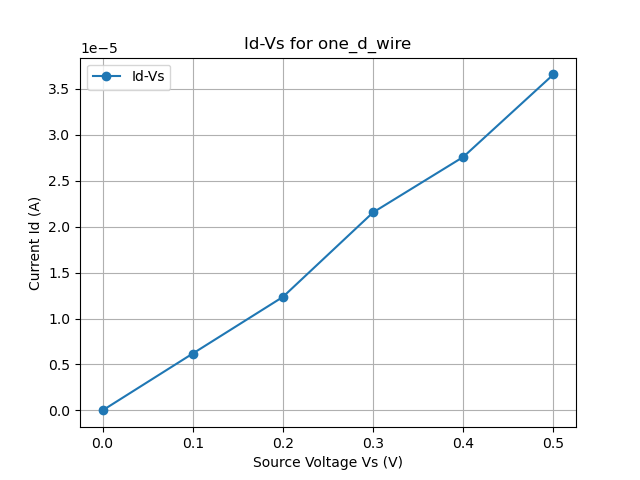
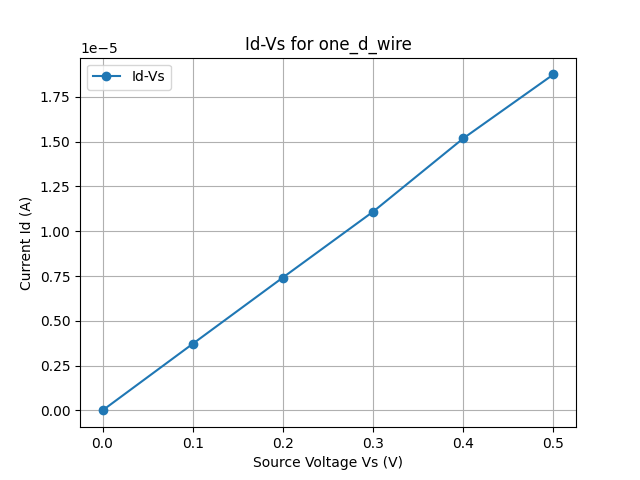
good non rgf plots of current

diff --git a/src/test_systems/rgf.py b/src/test_systems/rgf.py
@@ -124,6 +124,8 @@ class GreensFunction:
         Sigma_lesser = sp.lil_matrix((n, n), dtype=complex)
         Sigma_lesser +=  Gamma_L * f_L
         Sigma_lesser += Gamma_R * f_R
+        Sigma_lesser *= 1j
+        
         Sigma_lesser = Sigma_lesser.tocsc()
 
         G_A = G_R.conj().T
@@ -162,8 +164,8 @@ class GreensFunction:
         f_L = self.fermi_distribution(np.real(E), self.ham.Vs)
         f_R = self.fermi_distribution(np.real(E), self.ham.Vd)
 
-        sigma_L_lesser = Gamma_L * f_L
-        sigma_R_lesser = Gamma_R * f_R
+        sigma_L_lesser = Gamma_L * f_L *1j
+        sigma_R_lesser = Gamma_R * f_R * 1j
 
         g_R = []
         g_lesser = []
@@ -303,14 +305,14 @@ class GreensFunction:
         return G_R_diag
 
     
-    def compute_transmission(self, E, self_energy_method=None):
+    def compute_transmission(self, E, ky=0, self_energy_method=None):
         """
         Compute the transmission coefficient T(E) using the Caroli formula.
         T(E) = Tr[Γ_L * G_R * Γ_R * G_A]
         """
         # Get Green's function and broadening matrices
         G_R, Gamma_L, Gamma_R = self.compute_central_greens_function(
-            E, use_rgf=False, self_energy_method=self_energy_method, compute_lesser=False
+            E,ky=ky, use_rgf=False, self_energy_method=self_energy_method, compute_lesser=False
         )
 
         # Convert to dense arrays for matrix multiplication
@@ -319,14 +321,11 @@ class GreensFunction:
         Gamma_L_dense = Gamma_L.toarray()
         Gamma_R_dense = Gamma_R.toarray()
 
-        # Calculate the transmission matrix product
         T_matrix = Gamma_L_dense @ G_R_dense @ Gamma_R_dense @ G_A_dense
         
-        # The transmission is the trace of this matrix.
-        # It should be real, but we take np.real to discard numerical noise.
         T = np.real(np.trace(T_matrix))
         
-        return max(T, 0) # Ensure non-negative due to any remaining noise
+        return max(T, 0) 
 
     def compute_conductance(self, E_F=0.0, self_energy_method=None):
         """
@@ -338,31 +337,41 @@ class GreensFunction:
     
     def _current_worker(self, param):
         """Worker for multiprocessing: computes current for (E, ky)."""
-        E, ky, self_energy_method = param
+        E, ky, self_energy_method, use_rgf = param
+        
+        if not use_rgf:
+            transmission = self.compute_transmission(E, ky, self_energy_method)
+
+            f_s = self.fermi_distribution(E, self.ham.Vs)
+            f_d = self.fermi_distribution(E, self.ham.Vd)
+            IL_contrib = transmission * f_s
+            IR_contrib = transmission * f_d
+            current_contribution = self.dE * (self.ham.q**2 / (2 * np.pi * spc.hbar)) * (IL_contrib - IR_contrib)
+            
+            return current_contribution
+        
         G_R, G_lesser_diag, Gamma_L, Gamma_R = self.compute_central_greens_function(
             E, ky=ky, use_rgf=True, self_energy_method=self_energy_method, compute_lesser=True
         )
         f_s = self.fermi_distribution(E, self.ham.Vs)
         f_d = self.fermi_distribution(E, self.ham.Vd)
-        sigma_less_left = Gamma_L * f_s
-        sigma_less_right = Gamma_R * f_d
+        sigma_less_left = Gamma_L * f_s * 1j
+        sigma_less_right = Gamma_R * f_d * 1j
         A_matrix = np.diag(1j * (G_R - G_R.conj()))
-        IL_contrib = np.real(np.sum(sparse_diag_product(sigma_less_left, A_matrix))) \
-                        - np.real(np.sum(sparse_diag_product(Gamma_L, np.diag(G_lesser_diag))))
-        IR_contrib = np.real(np.sum(sparse_diag_product(sigma_less_right, A_matrix))) \
-                        - np.real(np.sum(sparse_diag_product(Gamma_R, np.diag(G_lesser_diag))))
+        term1 = np.sum(Gamma_L.diagonal() * G_lesser_diag)
+        term2 = f_s * np.sum(Gamma_L.diagonal() * A_matrix)
         # dE should be defined (energy step)
-        current_contribution = self.dE * (self.ham.q**2 / (2 * np.pi * spc.hbar)) * (IL_contrib - IR_contrib)
+        current_contribution = self.dE * (self.ham.q**2 / (2 * np.pi * spc.hbar)) * (term1 - term2)
         return current_contribution
 
-    def compute_total_current(self, self_energy_method="sancho_rubio"):
+    def compute_total_current(self, self_energy_method="sancho_rubio", use_rgf = False):
         """
         Compute total current by summing over all (E, ky) pairs using multiprocessing.
         """
         # Define energy and ky grids
         E_list = self.energy_grid
         ky_list = self.k_space
-        param_grid = list(product(E_list, ky_list, [self_energy_method]))
+        param_grid = list(product(E_list, ky_list, [self_energy_method], [use_rgf]))
 
         print(f"Starting current calculations for {len(param_grid)} (E, ky) pairs...")
 

diff --git a/src/test_systems/hamiltonian.py b/src/test_systems/hamiltonian.py
@@ -197,25 +197,17 @@ class Hamiltonian:
                     j = layer_atom_to_idx[neighbor]
                     H0[i, j] = t
 
-        # --- 2. Build the Interaction Block (H1) ---
-        # Describes connections between layer 0 and layer 1
+
         H1 = np.zeros((num_atoms_layer, num_atoms_layer), dtype=complex)
-        
-        # Find neighbors of atoms in layer 0 that are in layer 1
+
         layer_1_atoms = set(unitCell.structure[num_atoms_layer : 2 * num_atoms_layer])
 
         for i, atom_in_layer0 in enumerate(unitCell.layer):
             for neighbor, delta, l, m, n in unitCell.neighbors[atom_in_layer0]:
                 
                 if neighbor in layer_1_atoms:
-                    #print(neighbor)
-                    
-                    # Find the corresponding atom in layer 0 by shifting it back
-                    # This assumes your structure is perfectly periodic
                     shifted_neighbor_pos = (neighbor.x - (unitCell.sin60 * 2), neighbor.y, neighbor.z)
                     
-                    # You need to handle potential floating point issues here
-                    # A better way would be to create a robust mapping
                     for atom_in_l0, idx in layer_atom_to_idx.items():
                         if np.allclose(atom_in_l0.pos(), shifted_neighbor_pos, atol=1e-5):
                             j = idx
@@ -231,6 +223,21 @@ class Hamiltonian:
         # Create a list of the diagonal blocks (all H0)
         diagonal_blocks = [H0_sparse] * unitCell.num_layers_x
         off_diagonal_blocks = [H1_sparse] * (unitCell.num_layers_x - 1)
+        if (not blocks):
+            H_main_diag = sp.block_diag(diagonal_blocks, format='csc', dtype=complex)
+            num_blocks = len(diagonal_blocks)
+            block_rows, block_cols = diagonal_blocks[0].shape
+            full_dim = num_blocks * block_rows
+
+            H_upper = sp.lil_matrix((full_dim, full_dim), dtype=complex)
+
+            for i, block in enumerate(off_diagonal_blocks):
+                row_start = i * block_rows
+                col_start = (i + 1) * block_cols
+                H_upper[row_start : row_start + block_rows, col_start : col_start + block_cols] = block
+            H_upper = H_upper.tocsc()
+            H_full = H_main_diag + H_upper + H_upper.conj().T
+            return H_full
         return diagonal_blocks, off_diagonal_blocks
         
 

diff --git a/src/test_systems/test_hamiltonians.py b/src/test_systems/test_hamiltonians.py
@@ -22,7 +22,7 @@ def plot_ham(name : str, periodic: bool, new_ham = False, lead_func = None, ham_
     # Configuration for plots
     config = {
         "dos": True,
-        "transmission": False,
+        "transmission": True,
         "Id-Vs": True,
         "Id-Vg": False,
         "Vs_list": [0, 0.1, 0.2, 0.3, 0.4, 0.5],
@@ -33,4 +33,4 @@ def plot_ham(name : str, periodic: bool, new_ham = False, lead_func = None, ham_
 
     
 
-plot_ham("zigzag", True)
+plot_ham("zigzag", False)
